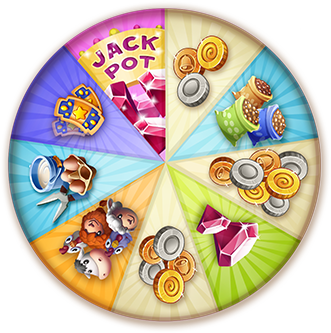
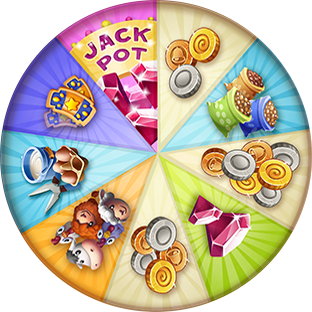
set new fortune asset wheel

diff --git a/src/scripts/scenes/Event/Fortune/Fortune.ts b/src/scripts/scenes/Event/Fortune/Fortune.ts
@@ -12,7 +12,7 @@ const wheel: string = require('../../../../assets/images/event/fortune/wheel.png
 const pointer: string = require('../../../../assets/images/event/fortune/pointer.png');
 const ticket: string = require('../../../../assets/images/event/fortune/ticket.png');
 const jackpotBg: string = require('../../../../assets/images/event/fortune/jackpot-bg.png');
-const doneChapterButton: string = require("../../../../assets/images/modal/done-chapter-button.png");
+const doneChapterButton: string = require('../../../../assets/images/modal/done-chapter-button.png');
 
 const JACKPOT: number = 22;
 const DIAMOND: number = 50;
@@ -136,7 +136,7 @@ export default class Fortune extends Phaser.Scene {
     }).setOrigin(0.5);
 
     this.wheel = this.add.sprite(modalGeom.centerX - 142, modalGeom.centerY - 180, 'fortune-wheel');
-    this.pointer = this.add.sprite(modalGeom.centerX - 140, modalGeom.centerY - 185, 'fortune-pointer');
+    this.pointer = this.add.sprite(modalGeom.centerX - 138, modalGeom.centerY - 185, 'fortune-pointer');
     this.closeBtn = this.add.sprite(modalGeom.right - 70, modalGeom.top + 40,'tasks-close')
     
     this.add.text(modalGeom.centerX + 50, modalGeom.centerY + 45, this.state.lang.latestWinners, {
